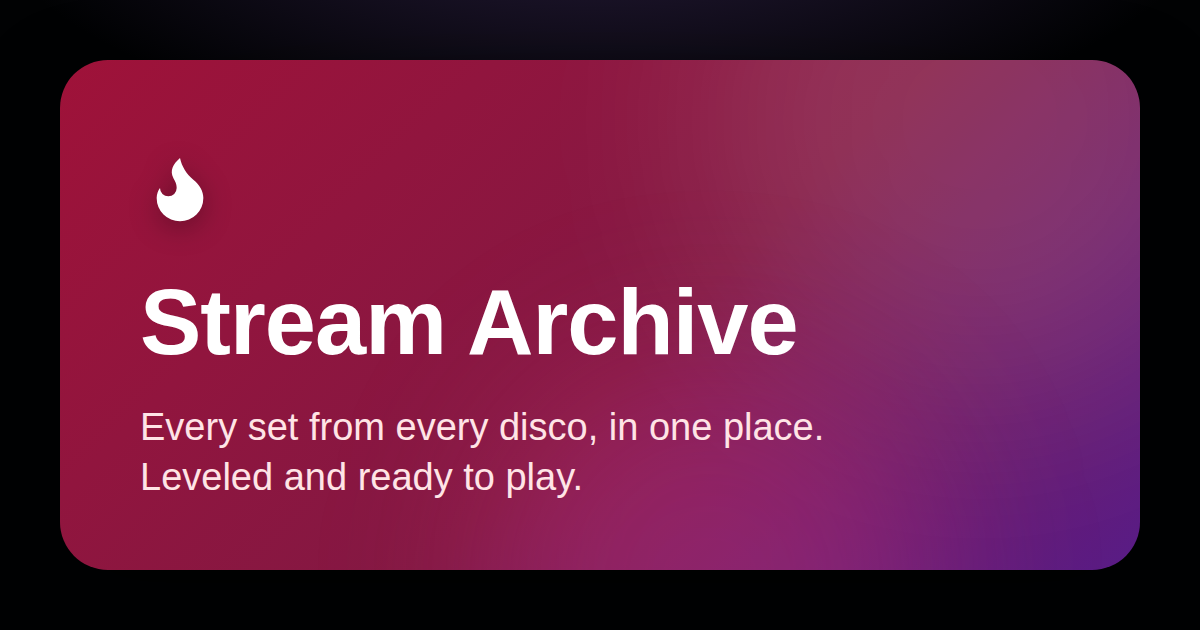
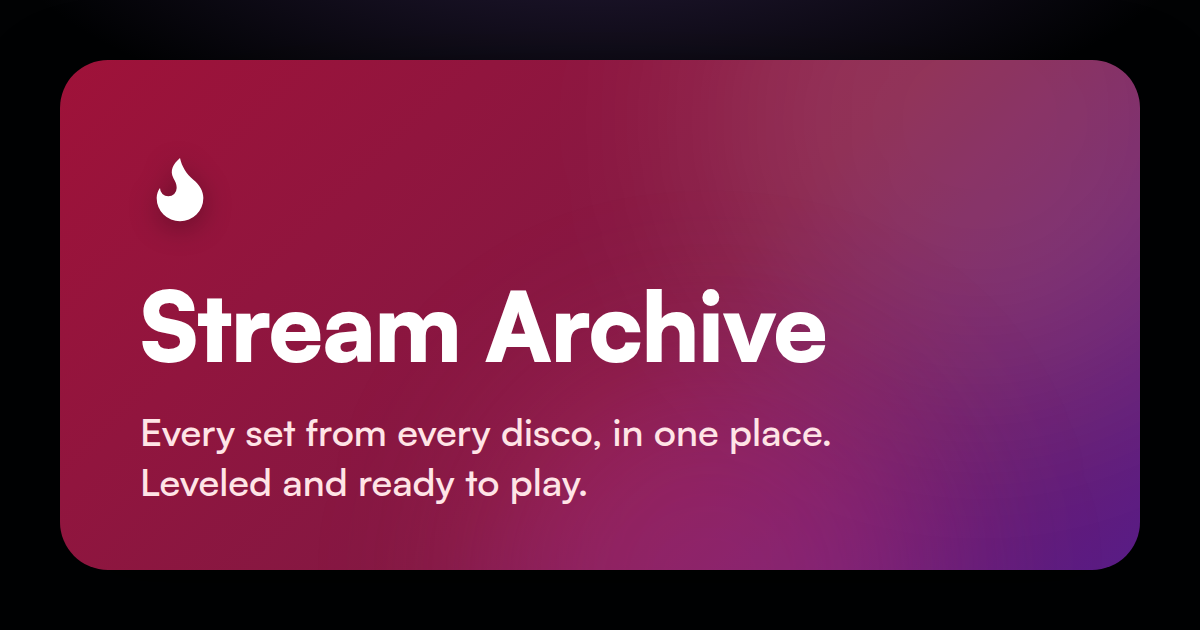
feat(archive): set the archive in Satoshi
The system font read generic. Satoshi (ITF Free Font License, self-hosted and
unmodified, preloaded with the stylesheet) on Tailwind's type scale, a step
heavier at every weight, with spacing tied to the text base so the space between
things follows the type, and tighter tracking on headings. daisyUI's buttons and
fields follow the same weights and sizes. The link preview image is re-rendered
in it.

The license forbids redistributing the font, so the file is kept out of this
public repository: its README says where to get it, and pages fall back to the
system font without it.

Changed region(s): [[0.1233, 0.4524, 0.7092, 0.573], [0.1233, 0.6635, 0.7092, 0.8143]]

diff --git a/apps/archive/src/views/app.css b/apps/archive/src/views/app.css
@@ -12,6 +12,46 @@
 }
 
 /*
+ * Satoshi (Indian Type Foundry, ITF Free Font License: views/static/fonts), one variable
+ * file for every weight, served as-is (the license forbids subsetting or converting it).
+ * `?v=` changes when the file does, so it caches for good; the preload in layout.tsx uses
+ * the same URL.
+ */
+@font-face {
+  font-family: 'Satoshi';
+  font-style: normal;
+  font-display: swap;
+  font-weight: 300 900;
+  src: url('/assets/satoshi.woff2?v=1') format('woff2-variations');
+}
+/*
+ * Satoshi is light and compact for its size, so each weight name is a step heavier than
+ * Tailwind's (a variable font draws the in-between weights exactly), and the text sizes
+ * are Tailwind's usual scale on a larger base. Spacing (margins, gaps, padding and sizes)
+ * is a quarter of that base, so the space between things grows with the text: change
+ * `--text-base` to rescale both.
+ */
+@theme {
+  --font-sans:
+    'Satoshi', ui-sans-serif, system-ui, sans-serif, 'Apple Color Emoji', 'Segoe UI Emoji';
+  --font-weight-normal: 550;
+  --font-weight-medium: 650;
+  --font-weight-semibold: 700;
+  --font-weight-bold: 800;
+  --font-weight-extrabold: 900;
+  --text-base: 1rem;
+  --spacing: calc(var(--text-base) / 4);
+  --text-xs: calc(var(--text-base) * 0.75);
+  --text-sm: calc(var(--text-base) * 0.875);
+  --text-lg: calc(var(--text-base) * 1.125);
+  --text-xl: calc(var(--text-base) * 1.25);
+  --text-2xl: calc(var(--text-base) * 1.5);
+  --text-3xl: calc(var(--text-base) * 1.875);
+  --text-4xl: calc(var(--text-base) * 2.25);
+  --text-5xl: calc(var(--text-base) * 3);
+}
+
+/*
  * Reserve the scrollbar's room on every page, so short and long pages are as wide.
  * Unlayered: daisyUI sets scrollbar-gutter on :root (only while scrolling or a modal is
  * open), and that beats any rule inside a layer.
@@ -30,6 +70,16 @@
 
 /* App shell: a dark page with slowly drifting glows, and solid panels on it. */
 @layer base {
+  /* Body text at the heavier "normal" and larger base size (see @theme). */
+  body {
+    font-size: var(--text-base);
+    font-weight: var(--font-weight-normal);
+  }
+  /* Large, heavy headings read airy at the default spacing: draw the letters closer. */
+  h1,
+  h2 {
+    letter-spacing: -0.015em;
+  }
   /*
    * daisyUI paints the root with `--root-bg` (base-100 by default, lighter than the panels
    * in the dark theme), and its `:root` rule beats a plain `html` one, so set the variable.
@@ -232,6 +282,20 @@
   }
   :is(.input, .select, .textarea) {
     background-color: color-mix(in oklab, var(--color-base-100) 65%, transparent);
+  }
+  /* daisyUI's buttons and fields have fixed weights and sizes; put them on the site's scale. */
+  .btn {
+    font-size: var(--fontsize, var(--text-sm));
+    font-weight: var(--font-weight-semibold);
+  }
+  .btn-sm {
+    --fontsize: var(--text-xs);
+  }
+  .btn-xs {
+    --fontsize: calc(var(--text-base) * 0.6875);
+  }
+  :is(.input, .select, .textarea) {
+    --font-size-min: var(--text-sm);
   }
   .btn.panel:not(:hover) {
     --btn-bg: color-mix(in oklab, var(--color-base-200) 65%, transparent);

diff --git a/apps/archive/src/assets.ts b/apps/archive/src/assets.ts
@@ -1,5 +1,6 @@
 /**
- * Static assets: the Tailwind and esbuild output, htmx from node_modules, and the icons.
+ * Static assets: the Tailwind and esbuild output, htmx from node_modules, the Satoshi
+ * font (variable weight, from Fontshare: see views/static/fonts), and the icons.
  * Pages link the app's own builds through `assetUrl`, which adds a version, so a new
  * build is fetched at once while unchanged files stay cached.
  */
@@ -30,6 +31,11 @@ export const ASSETS = [
     '/assets/htmx.min.js',
     require.resolve('htmx.org/dist/htmx.min.js'),
     'text/javascript; charset=utf-8',
+  ],
+  [
+    '/assets/satoshi.woff2',
+    fileURLToPath(new URL('views/static/fonts/Satoshi-Variable.woff2', import.meta.url)),
+    'font/woff2',
   ],
   ['/assets/og.png', fileURLToPath(new URL('views/static/og.png', import.meta.url)), 'image/png'],
   [

diff --git a/apps/archive/src/views/layout.tsx b/apps/archive/src/views/layout.tsx
@@ -314,6 +314,14 @@ function Document(props: {
           <link rel="apple-touch-icon" href="/assets/apple-touch-icon.png" />
           {preview && <PreviewTags preview={preview} />}
           <script>{raw(PAGE_SCRIPT)}</script>
+          {/* Fetch the font with the stylesheet, not after it: same URL as app.css's @font-face. */}
+          <link
+            rel="preload"
+            href="/assets/satoshi.woff2?v=1"
+            as="font"
+            type="font/woff2"
+            crossorigin="anonymous"
+          />
           <link rel="stylesheet" href={assetUrl('/assets/app.css')} />
           {/* Error responses (wrong password, not found) are full pages too: show them. */}
           <meta

diff --git a/apps/archive/src/app.ts b/apps/archive/src/app.ts
@@ -33,6 +33,7 @@ const PUBLIC_PATHS = new Set([
   '/assets/app.css',
   '/assets/htmx.min.js',
   '/assets/player.js',
+  '/assets/satoshi.woff2',
   // Link previews and icons: chat apps fetch these without logging in.
   '/assets/og.png',
   '/assets/apple-touch-icon.png',

diff --git a/docs/design.md b/docs/design.md
@@ -123,7 +123,7 @@ Hono, server-rendered `hono/jsx`, daisyUI on Tailwind, htmx (with `hx-boost`, so
 
 - **Pages:** home (latest sessions, DJs, popular sets), `/search` (every set, filtered live by text, DJ or session), sessions as albums (`/sessions/<uuid>`, with tracklist), set pages under their album, and stats tables at `/sessions` and `/djs`. Set rows expand in place into the set's details.
 - **Player:** a bottom bar with a queue (play an album, a list or a set; add to it, jump within it, remove from it), stop, seek, volume and media keys. Plays the MP3, falling back to the raw file until a set is leveled. While a set loads or buffers, the play button shows a spinner and the seek bar pulses. A play counts when a set starts playing; plays rank the home page's popular sets and show only in the admin pages.
-- **Look:** dark only, with slow colour glows behind the page (tied to the clock, so they don't restart between pages) under frosted-glass panels, fields and menus, and a rose accent. Content links are text-coloured with an underline that turns rose on hover. Art without an upload is a gradient seeded by its ID, with film grain. Motion stops with reduced-motion settings.
+- **Look:** set in Satoshi (self-hosted; its own license, so the file isn't in the repository: see `apps/archive/src/views/static/fonts`), on Tailwind's type scale with spacing tied to the text base; dark only, with slow colour glows behind the page (tied to the clock, so they don't restart between pages) under frosted-glass panels, fields and menus, and a rose accent. Content links are text-coloured with an underline that turns rose on hover. Art without an upload is a gradient seeded by its ID, with film grain. Motion stops with reduced-motion settings.
 - **Forms:** submit buttons are disabled while their request is pending.
 - **Assets:** pages link the CSS and scripts with a `?v=` version (file time and size), so they're cached for a year and a new build is fetched at once.
 - **Downloads:** MP3 and FLAC (and the raw WAV, or an uploaded set's original, while it exists), named `DJ - Title (date).ext`. Each client IP (from Traefik's `X-Forwarded-For`) gets at most `ARCHIVE_DOWNLOAD_LIMIT_MBPS` across all its downloads and playback, after a 1 s burst at full speed (so playback starts and seeks are instant), so one fast downloader can't take the whole upload link. A download counts once, when it's fetched from its first byte (a download manager's later pieces and resumes don't count); sets, sessions and DJs show their download counts.

diff --git a/docs/conventions.md b/docs/conventions.md
@@ -55,7 +55,7 @@ How code in this repo should look and be organised. Setup and scripts are in [de
 - **Conventional Commits:** `feat:`, `fix:`, `refactor:`, `test:`, `docs:`, `chore:`, `build:`, `ci:`, with an optional scope (`feat(archive):`, `fix(recorder):`, `chore(deps):`). Use the imperative mood, a subject of 72 characters or less, and a body explaining _why_ when it isn't obvious.
 - **One commit per logical change.** A feature together with its tests and docs is one commit; unrelated changes are separate commits.
 - **No AI attribution** in commits or PRs (no `Co-Authored-By` trailers, no "Generated with" footers).
-- `main` is the only branch, pushed to the private GitHub repo the server pulls from.
+- `main` is the only branch, pushed to the public GitHub repo the server pulls from. Nothing that mustn't be published goes in it (secrets, install-specific values, the licensed font: see `apps/archive/src/views/static/fonts`).
 
 ## Docs
 

diff --git a/apps/archive/src/views/static/fonts/README.md b/apps/archive/src/views/static/fonts/README.md
@@ -1,0 +1,5 @@
+# Fonts
+
+The archive is set in Satoshi by Indian Type Foundry, from [Fontshare](https://www.fontshare.com/fonts/satoshi), under the ITF Free Font License ([Satoshi-LICENSE.txt](Satoshi-LICENSE.txt)), not this project's MIT license.
+
+The license allows self-hosting it for your own site, unmodified (no subsetting or converting), but not redistributing it, so the font file isn't in this repository (`.gitignore` keeps it out). To use it, download Satoshi from Fontshare and put `Fonts/WEB/fonts/Satoshi-Variable.woff2` from the download here, in this folder, before building or running the archive: on the server, copy it into this folder of the checkout. Without it, pages fall back to the system font.

diff --git a/README.md b/README.md
@@ -92,4 +92,4 @@ The recorder only runs in its container (Xvfb, PulseAudio), and only one recorde
 
 ## License
 
-[MIT](LICENSE). It covers this code only: running the recorder still means automating a Discord user account, which Discord's terms forbid (see the ToS note above).
+[MIT](LICENSE). It covers this code only: running the recorder still means automating a Discord user account, which Discord's terms forbid (see the ToS note above). The archive's font, Satoshi, has its own license and isn't in the repository: see [apps/archive/src/views/static/fonts](apps/archive/src/views/static/fonts/README.md) for where to get it.
